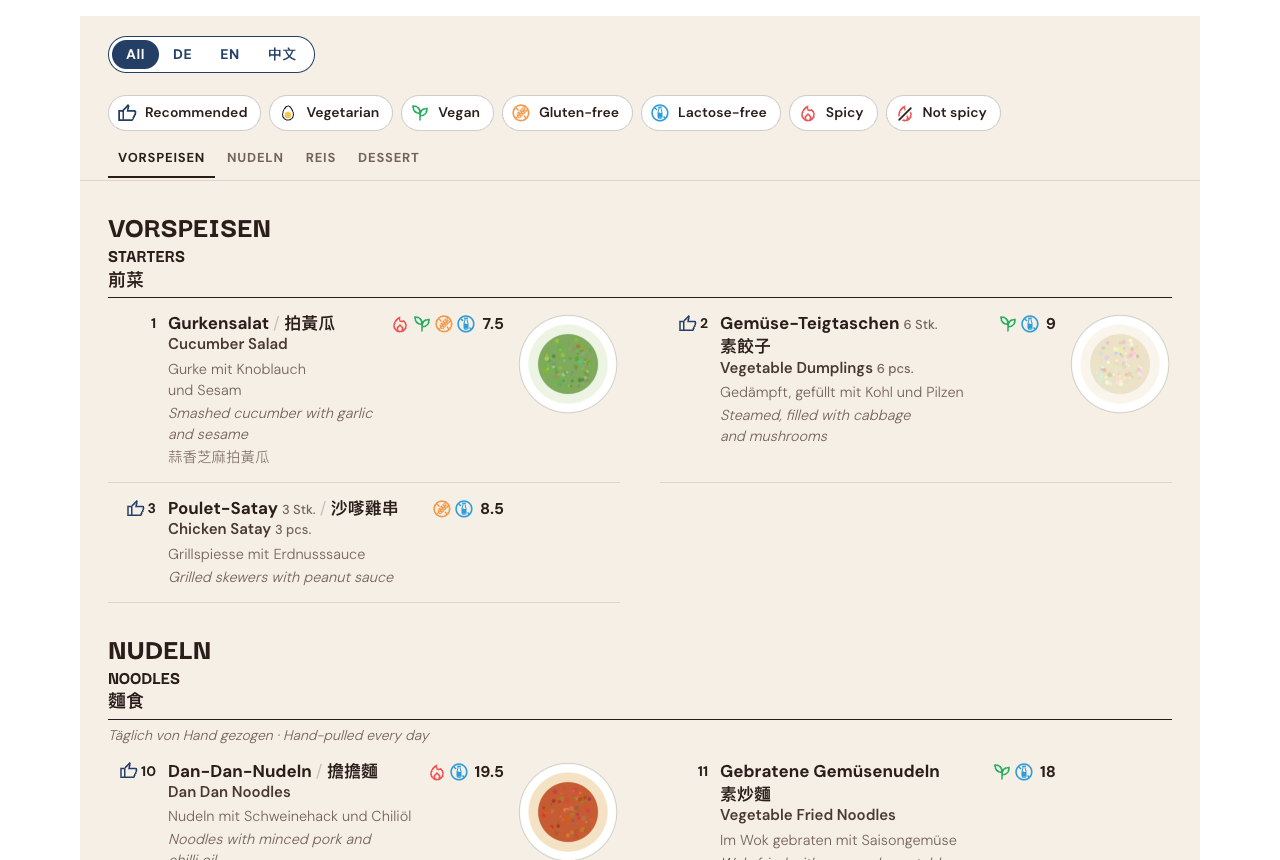
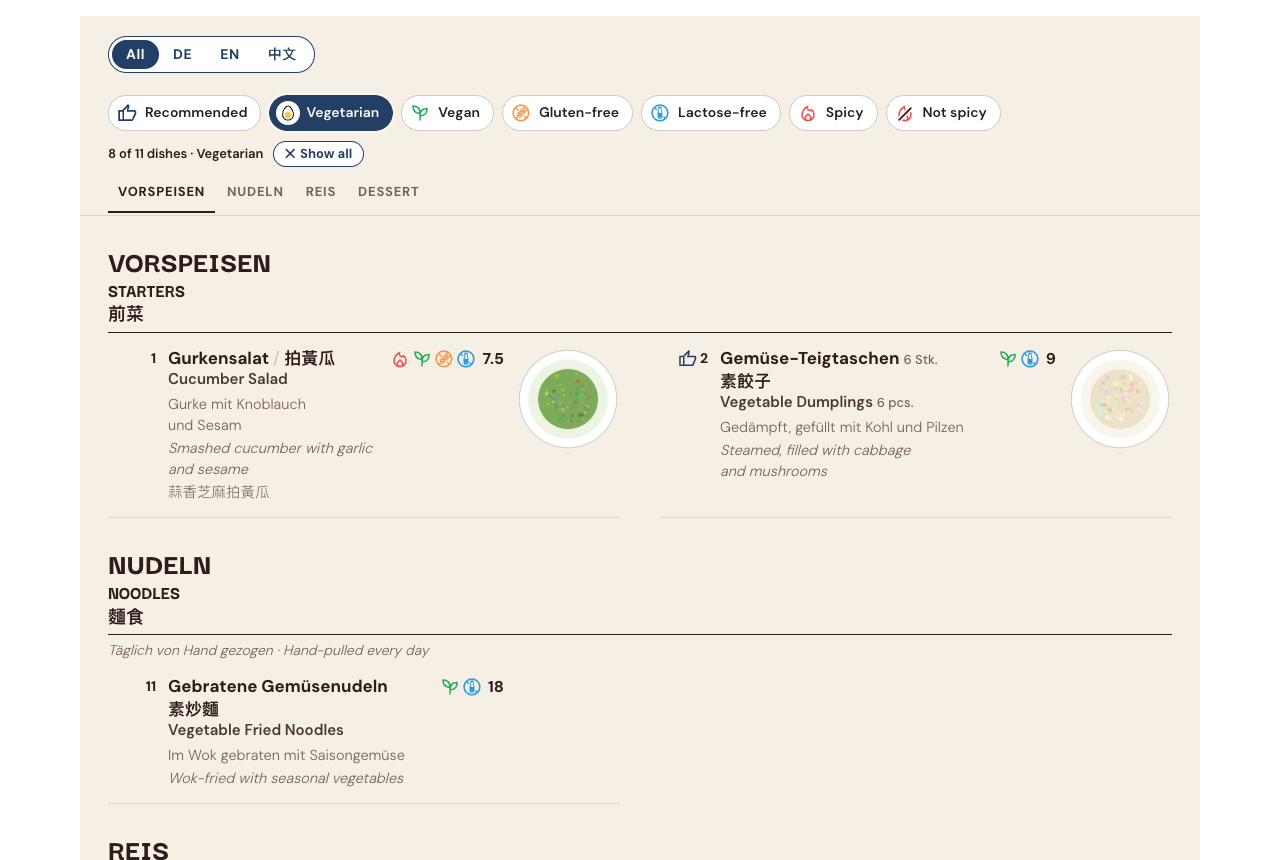
MenuDash 2.9.0: clearer diet filters
While a filter is on, a line under the buttons says how many dishes are shown
and which filters are on, with "Show all" to turn them all off. On a phone the
filter row fades at the edge where more buttons are. New screenshots.

diff --git a/menudash/assets/menu.js b/menudash/assets/menu.js
@@ -37,6 +37,8 @@
     var tabs = Array.prototype.slice.call(root.querySelectorAll(".mdash-cats a"));
     var nav = root.querySelector(".mdash-cats");
     var noMatch = root.querySelector(".mdash-nomatch");
+    var chipBox = root.querySelector(".mdash-chips");
+    var filtered = root.querySelector(".mdash-filtered");
     var dialog = root.querySelector(".mdash-dlg");
     if (!bar && !root.hasAttribute("data-lite")) return; // No menu uploaded yet.
 
@@ -59,7 +61,17 @@
         return a && b && b.top > a.top + 4;
       });
       wrapped.forEach(function (h) { h.classList.add("mdash-own"); });
+      edges();
     }
+
+    /* ---------- Filter row wider than the screen: fade the side that has more ---------- */
+    function edges() {
+      if (!chipBox) return;
+      var x = chipBox.scrollLeft, more = chipBox.scrollWidth - chipBox.clientWidth;
+      chipBox.classList.toggle("mdash-more-l", x > 2);
+      chipBox.classList.toggle("mdash-more-r", x < more - 2);
+    }
+    if (chipBox) chipBox.addEventListener("scroll", edges, { passive: true });
 
     /* ---------- Language ---------- */
     function setLang(view, remember) {
@@ -128,10 +140,38 @@
         shown += inSec;
       });
       noMatch.hidden = shown > 0;
+      showFiltered(need, shown);
       if (remember) setParam("diet", need.join(","));
       fitNames();
       spy();
     }
+    /* While filtering, a line under the buttons: "18 of 110 dishes · Vegetarian" in each
+       interface language, and "Show all" to turn every filter off. */
+    var total = root.querySelectorAll(".mdash-section .mdash-dish").length;
+    var shownText = filtered ? Array.prototype.slice.call(filtered.querySelectorAll(".mdash-shown .mdash-u")) : [];
+    shownText.forEach(function (s) { s.setAttribute("data-tpl", s.textContent); });
+    function showFiltered(need, shown) {
+      if (!filtered) return;
+      filtered.hidden = need.length === 0;
+      if (!need.length) return;
+      shownText.forEach(function (s) {
+        var l = s.getAttribute("data-l");
+        var names = chips.filter(function (c) { return c.getAttribute("aria-pressed") === "true"; }).map(function (c) {
+          var t = c.querySelector('.mdash-u[data-l="' + l + '"]');
+          return (t || c).textContent.trim();
+        });
+        s.textContent = s.getAttribute("data-tpl").replace("%1$s", shown).replace("%2$s", total) + " · " + names.join(l === "zh" ? "、" : ", ");
+      });
+    }
+    function clearFilters() {
+      chips.forEach(function (c) { c.setAttribute("aria-pressed", "false"); });
+      applyFilters(true);
+    }
+    if (filtered) filtered.querySelector(".mdash-clear").addEventListener("click", function () {
+      clearFilters();
+      if (chipBox) chipBox.scrollLeft = 0;
+    });
+
     chips.forEach(function (c) {
       c.addEventListener("click", function () {
         var on = c.getAttribute("aria-pressed") !== "true";
@@ -140,10 +180,7 @@
         applyFilters(true);
       });
     });
-    if (bar) root.querySelector(".mdash-reset").addEventListener("click", function () {
-      chips.forEach(function (c) { c.setAttribute("aria-pressed", "false"); });
-      applyFilters(true);
-    });
+    if (bar) root.querySelector(".mdash-reset").addEventListener("click", clearFilters);
     try {
       var diet = (new URLSearchParams(location.search).get("diet") || "").split(",");
       chips.forEach(function (c) {

diff --git a/menudash/assets/menu.css b/menudash/assets/menu.css
@@ -127,6 +127,21 @@ body.admin-bar .menudash { --mdash-top: 32px; }
   background: var(--mdash-ink); border-radius: 2px; transform: rotate(-45deg); box-shadow: 0 0 0 1.5px var(--mdash-paper);
 }
 
+/* More buttons beyond the edge: they fade out there, so guests see the row goes on. */
+.menudash .mdash-chips.mdash-more-r { -webkit-mask-image: linear-gradient(to right, #000 calc(100% - 48px), transparent); mask-image: linear-gradient(to right, #000 calc(100% - 48px), transparent); }
+.menudash .mdash-chips.mdash-more-l { -webkit-mask-image: linear-gradient(to left, #000 calc(100% - 48px), transparent); mask-image: linear-gradient(to left, #000 calc(100% - 48px), transparent); }
+.menudash .mdash-chips.mdash-more-l.mdash-more-r { -webkit-mask-image: linear-gradient(to right, transparent, #000 48px, #000 calc(100% - 48px), transparent); mask-image: linear-gradient(to right, transparent, #000 48px, #000 calc(100% - 48px), transparent); }
+
+/* While filtering: "18 of 110 dishes · Vegetarian   ✕ Show all". */
+.menudash .mdash-filtered { display: flex; align-items: center; gap: 10px; margin-top: 8px; font-size: 13px; line-height: 1.3; color: var(--mdash-ink); }
+.menudash .mdash-filtered[hidden] { display: none; }
+.menudash .mdash-shown { flex: 0 1 auto; min-width: 0; font-weight: 600; }
+.menudash .mdash-clear {
+  display: inline-flex; align-items: center; gap: 5px; padding: 4px 11px; border: 1.5px solid var(--mdash-accent); border-radius: 999px;
+  flex: none; background: var(--mdash-paper); color: var(--mdash-accent); font-size: 13px; font-weight: 700; white-space: nowrap;
+}
+.menudash .mdash-clear:hover { background: var(--mdash-accent); color: var(--mdash-on-accent); }
+
 .menudash .mdash-cats { gap: 2px; margin-top: 6px; }
 .menudash .mdash-cats a {
   flex: none; padding: 8px 10px 9px; border-bottom: 2.5px solid transparent;

diff --git a/menudash/includes/strings.php b/menudash/includes/strings.php
@@ -35,6 +35,9 @@ function mdash_strings() {
 		'vegetarian' => array( 'de' => 'Vegetarisch', 'en' => 'Vegetarian', 'zh' => '素食' ),
 		'none'       => array( 'de' => 'Keine Gerichte passen zu diesen Filtern.', 'en' => 'No dishes match these filters.', 'zh' => '沒有符合篩選條件的菜式。' ),
 		'reset'      => array( 'de' => 'Filter zurücksetzen', 'en' => 'Clear filters', 'zh' => '清除篩選' ),
+		'show_all'   => array( 'de' => 'Alle zeigen', 'en' => 'Show all', 'zh' => '全部顯示' ),
+		// While filtering: %1$s dishes shown of %2$s, then the filters' names.
+		'shown'      => array( 'de' => '%1$s von %2$s Gerichten', 'en' => '%1$s of %2$s dishes', 'zh' => '%2$s 道菜中的 %1$s 道' ),
 		'close'      => array( 'de' => 'Schliessen', 'en' => 'Close', 'zh' => '關閉' ),
 		'photo'      => array( 'de' => 'Foto', 'en' => 'Photo', 'zh' => '照片' ),
 		'prices'     => array( 'de' => 'Alle Preise in CHF inkl. MwSt.', 'en' => 'All prices in CHF incl. VAT.', 'zh' => '所有價格以瑞士法郎計，已含增值稅。' ),

diff --git a/menudash/menudash.php b/menudash/menudash.php
@@ -2,7 +2,7 @@
 /**
  * Plugin Name:       MenuDash
  * Description:       A restaurant menu for your website, kept in a spreadsheet: upload the menu as CSV and the dish photos under MenuDash, then put [menudash] on a page. Guests read it in German, English and Chinese, all at once or one at a time, and filter by diet. Background and highlight colours and the diet icons are chosen on the MenuDash page, and a QR code to the menu prints as table cards. Add-ons: MenuDash Restaurant (details, opening hours, holidays, "open now"), MenuDash Specials (today's specials) and MenuDash Gift Cards (gift card orders).
- * Version:           2.8.0
+ * Version:           2.9.0
  * Requires at least: 6.3
  * Requires PHP:      7.4
  * Plugin URI:        https://insdash.ch/projects/menudash/
@@ -15,7 +15,7 @@
 
 defined( 'ABSPATH' ) || exit;
 
-define( 'MENUDASH_VERSION', '2.8.0' );
+define( 'MENUDASH_VERSION', '2.9.0' );
 define( 'MENUDASH_NAME', 'MenuDash' );
 define( 'MENUDASH_FILE', __FILE__ );
 define( 'MENUDASH_DIR', plugin_dir_path( __FILE__ ) );

diff --git a/menudash/templates/menu.php b/menudash/templates/menu.php
@@ -60,6 +60,13 @@ endif;
 			</button>
 		<?php endforeach; ?>
 	</div>
+	<?php if ( $chips ) : ?>
+		<?php // While a filter is on: how many dishes are shown, which filters, and one button to show all again. Filled in by menu.js. ?>
+		<div class="mdash-filtered" hidden aria-live="polite">
+			<span class="mdash-shown"><?php echo mdash_ui( 'shown' ); // phpcs:ignore -- fixed strings ?></span>
+			<button type="button" class="mdash-clear"><span aria-hidden="true">✕</span> <?php echo mdash_ui( 'show_all' ); // phpcs:ignore ?></button>
+		</div>
+	<?php endif; ?>
 	<nav class="mdash-cats" aria-label="<?php echo esc_attr( mdash_ui_plain( 'categories' ) ); ?>">
 		<?php
 		foreach ( $menu['sections'] as $sec ) :

diff --git a/README.md b/README.md
@@ -17,7 +17,7 @@ The **colours** and **diet icons** are chosen on the same dashboard page, so the
 ## What guests get
 
 - **Languages:** all three languages at once, or one at a time, via **All · DE · EN · 中文**. The choice is remembered, and `?lang=de` links straight to one language.
-- **Diet filters:** Recommended, Vegetarian (includes vegan), Vegan, Gluten-free, Lactose-free (includes vegan), Spicy and Not spicy. A button only shows when a dish in the menu has its mark, and each can be switched off in the dashboard. Filters combine (Spicy and Not spicy switch each other off), and categories with nothing left are hidden.
+- **Diet filters:** Recommended, Vegetarian (includes vegan), Vegan, Gluten-free, Lactose-free (includes vegan), Spicy and Not spicy. A button only shows when a dish in the menu has its mark, and each can be switched off in the dashboard. Filters combine (Spicy and Not spicy switch each other off), and categories with nothing left are hidden. While a filter is on, a line under the buttons says how many dishes are shown and which filters are on ("8 of 11 dishes · Vegetarian"), with **Show all** to turn them all off. On a phone the button row fades at the edge where more buttons are.
 - **Navigation:** a sticky bar with the filters and the category tabs. It sits under the theme's own fixed header automatically.
 - **Photos:** dish photos next to each dish; tap one for a large view.
 - **Phone layout:** each language gets its own line, and a Chinese name that doesn't fit next to the German one moves to a line of its own.
